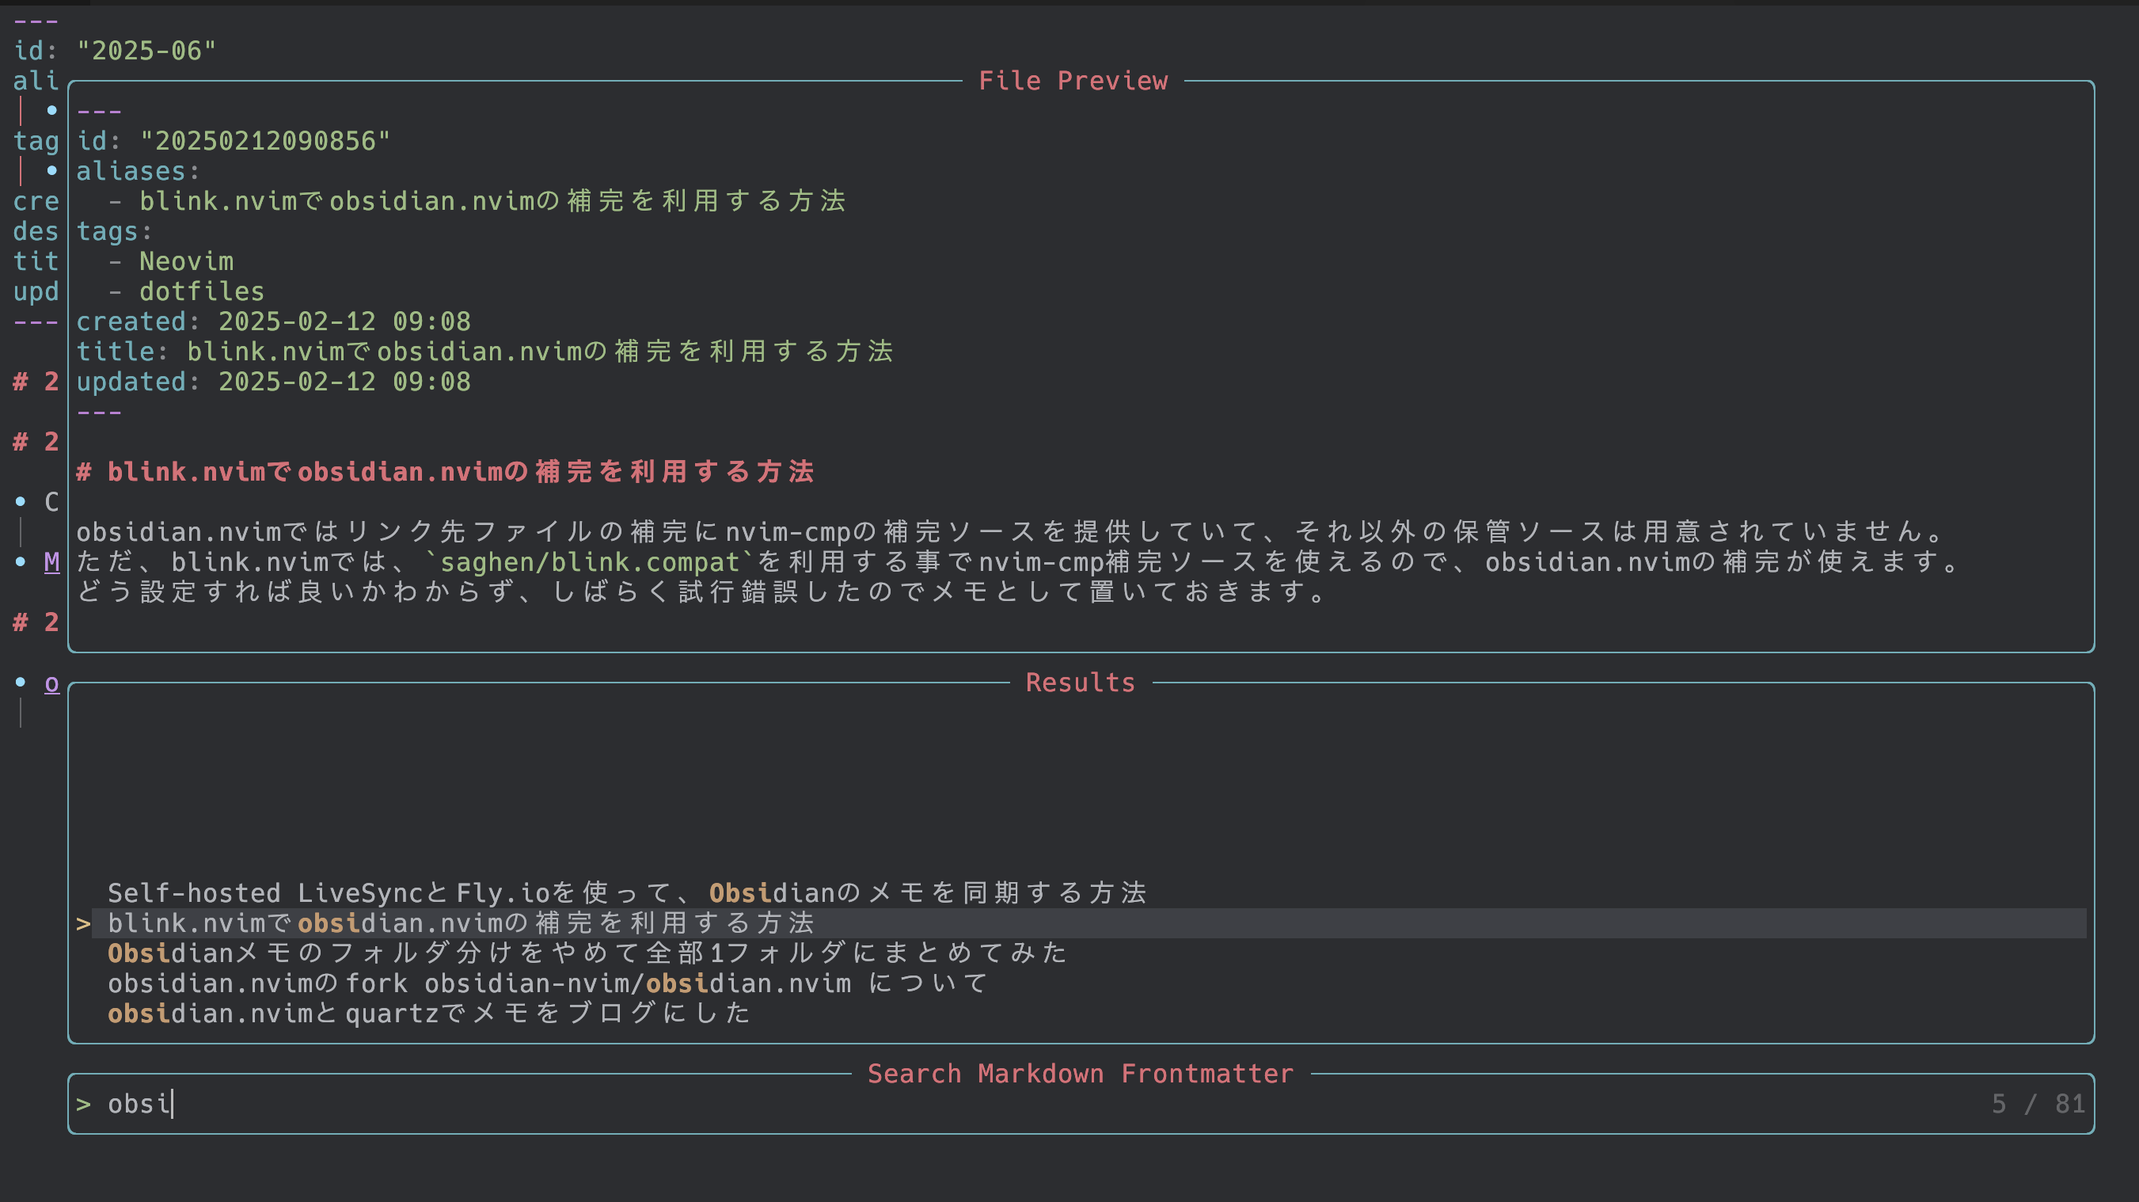
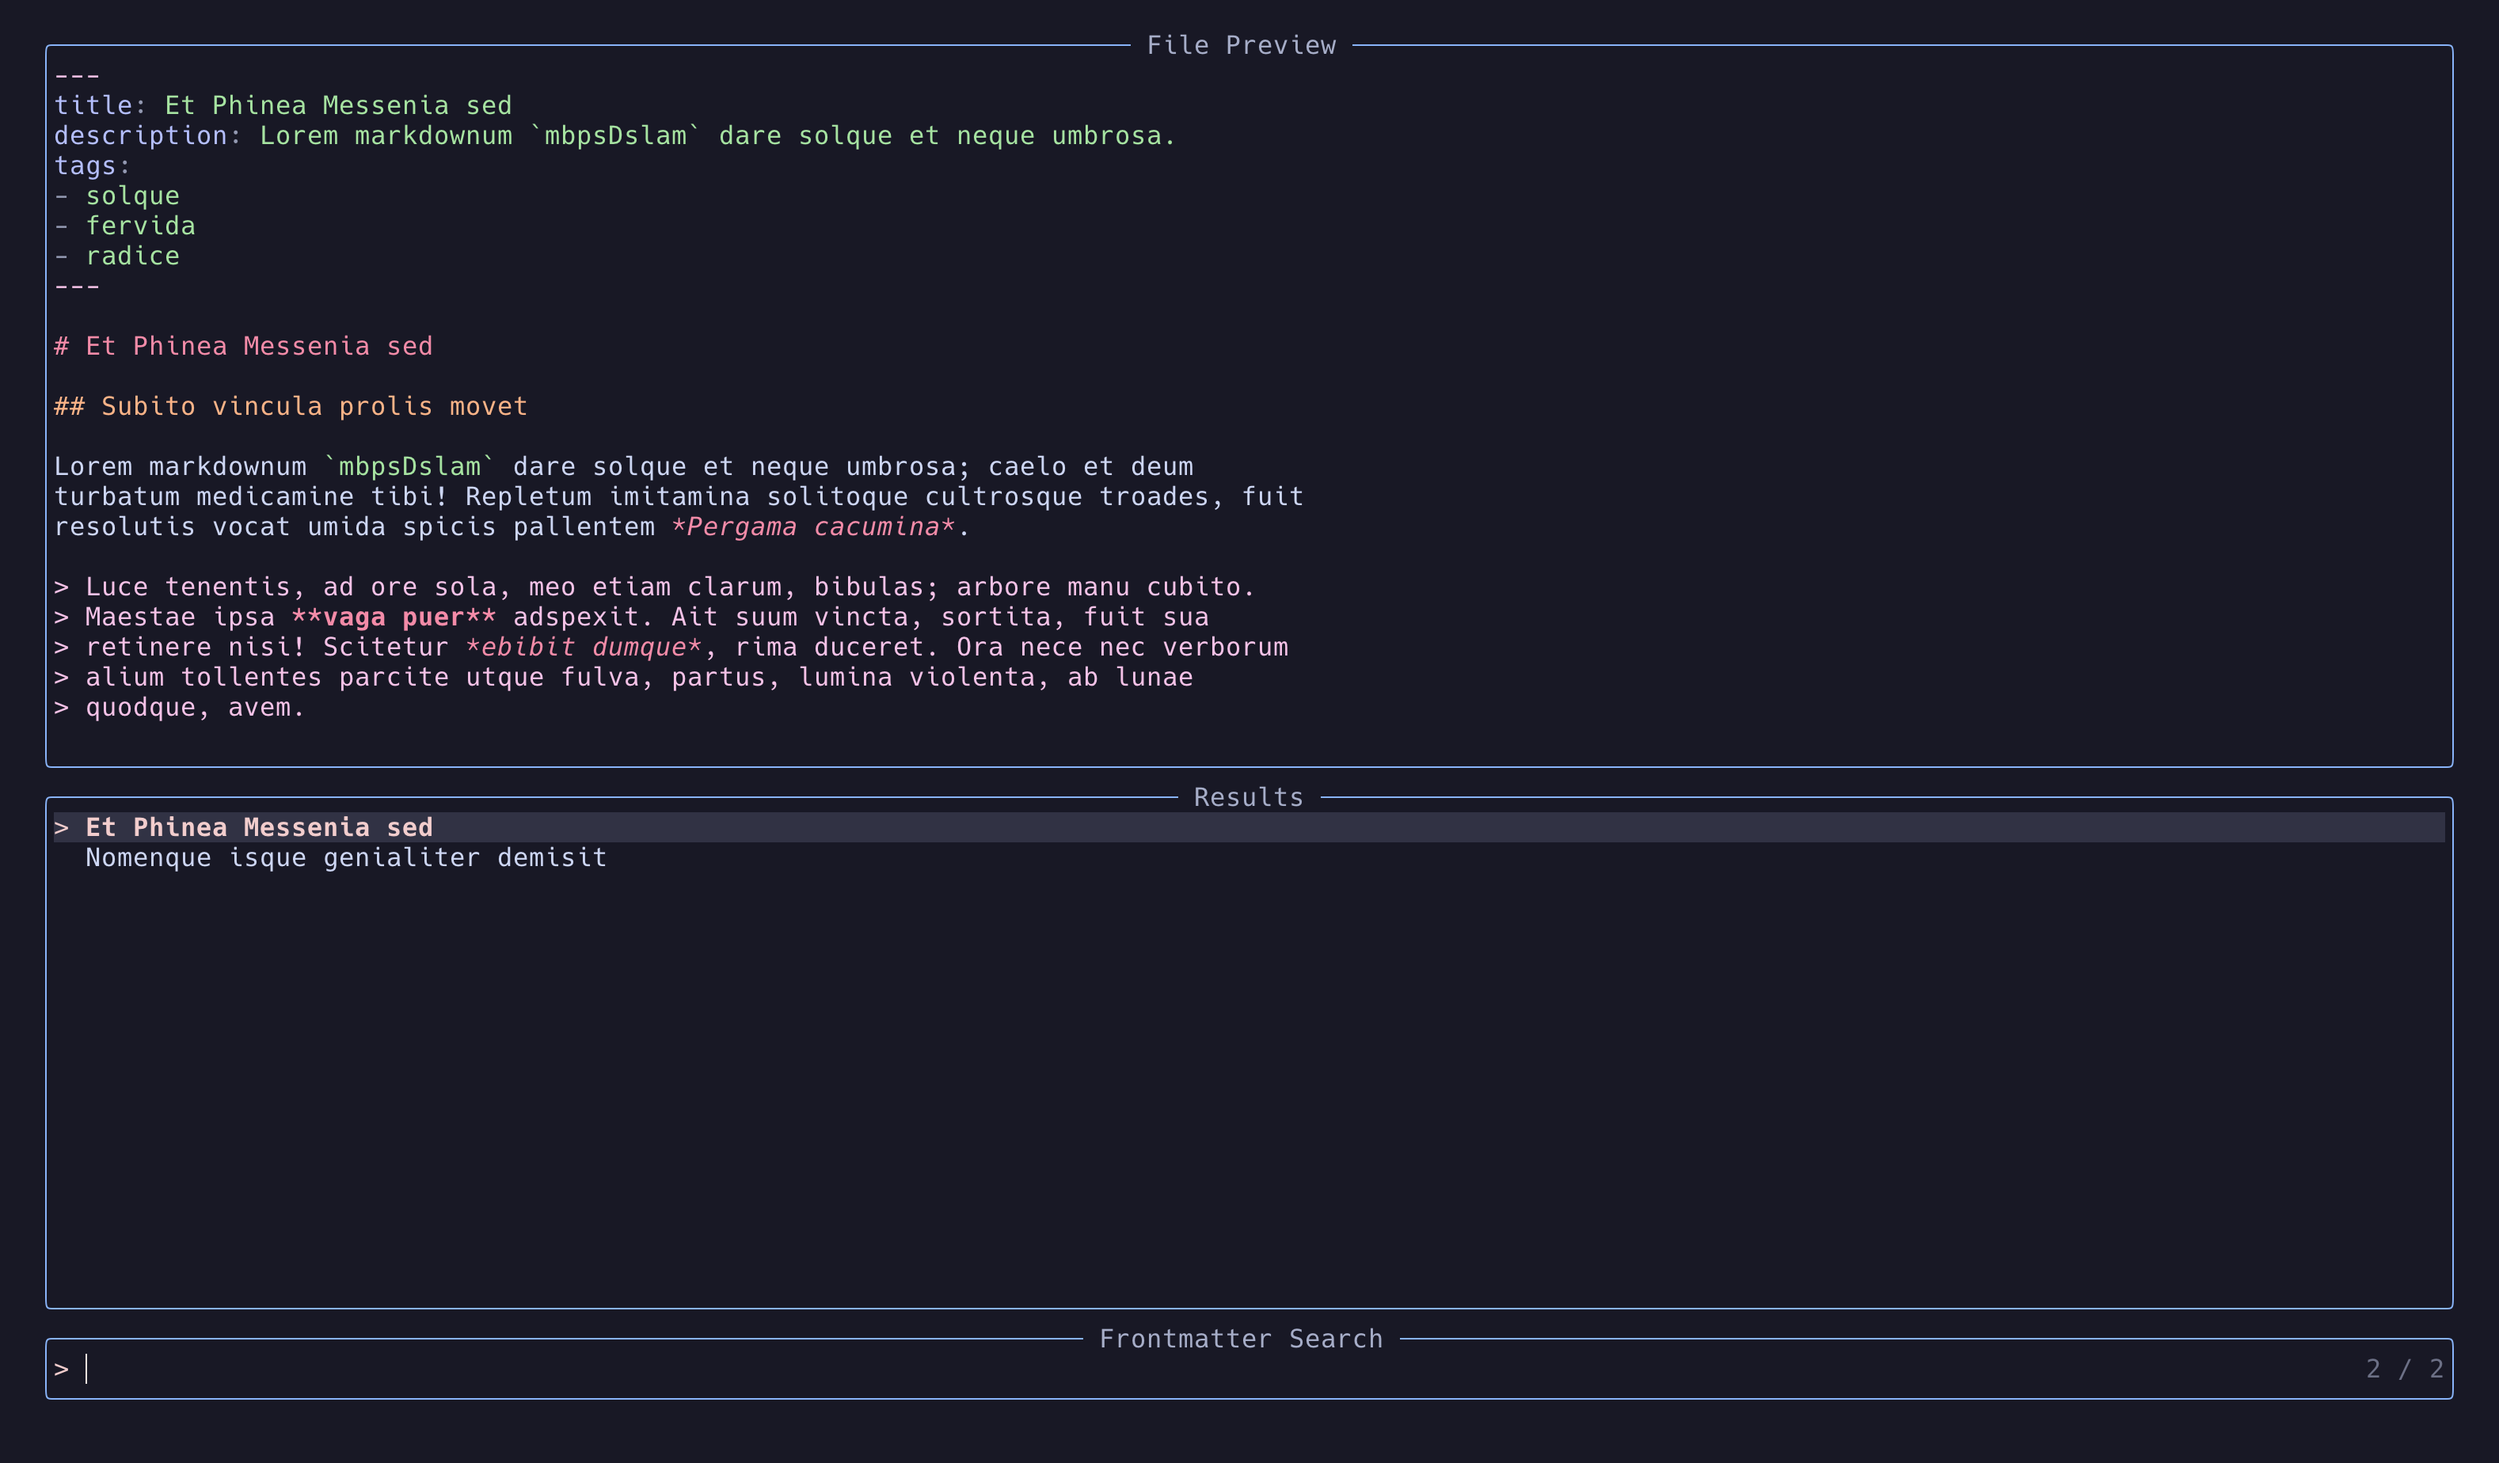
feat: Generalize for multile filetypes
- Adds ability to search for .adoc files.
- Generalizes naming conventions.

diff --git a/README.md b/README.md
@@ -1,6 +1,10 @@
-# telescope-markdown-frontmatter.nvim
+# nvim-telescope-frontmatter
 
-A [Telescope](https://github.com/nvim-telescope/telescope.nvim) extension for searching through YAML frontmatter in Markdown files.
+This is a fork of tkancf/telescope-markdown-frontmatter.nvim. This fork focuses on:
+- Generalizing the plugin to search any filetype with a frontmatter.
+- Extending the configuration.
+
+A [Telescope](https://github.com/nvim-telescope/telescope.nvim) extension for searching through YAML frontmatter in files like files and AsciiDoc.
 
 ## Features
 
@@ -12,22 +16,18 @@ A [Telescope](https://github.com/nvim-telescope/telescope.nvim) extension for se
 - Support for multiple frontmatter keys
 - Tab support (`<C-t>` to open in new tab)
 
-## Demo
-
-![Demo Screenshot](docs/screenshot.png)
-
 ## Installation
 
 ### Using [lazy.nvim](https://github.com/folke/lazy.nvim)
 
 ```lua
 {
-  "tkancf/telescope-markdown-frontmatter.nvim",
+  "quin-shanley/nvim-telescope-frontmatter",
   dependencies = {
     "nvim-telescope/telescope.nvim",
   },
   config = function()
-    require("telescope").load_extension("markdown_frontmatter")
+    require("telescope").load_extension("frontmatter")
   end,
 }
 ```
@@ -36,12 +36,12 @@ A [Telescope](https://github.com/nvim-telescope/telescope.nvim) extension for se
 
 ```lua
 use {
-  "tkancf/telescope-markdown-frontmatter.nvim",
+  "quin-shanley/nvim-telescope-frontmatter",
   requires = {
     "nvim-telescope/telescope.nvim",
   },
   config = function()
-    require("telescope").load_extension("markdown_frontmatter")
+    require("telescope").load_extension("frontmatter")
   end,
 }
 ```
@@ -52,34 +52,34 @@ use {
 
 ```vim
 " Search all configured frontmatter keys
-:Telescope markdown_frontmatter
+:Telescope frontmatter
 
 " Search a specific field
-:Telescope markdown_frontmatter title
-:Telescope markdown_frontmatter description
-:Telescope markdown_frontmatter tags
-:Telescope markdown_frontmatter author
+:Telescope frontmatter title
+:Telescope frontmatter description
+:Telescope frontmatter tags
+:Telescope frontmatter author
 
 " Search multiple fields at once
-:Telescope markdown_frontmatter field=title,description
-:Telescope markdown_frontmatter field=title,tags,author
+:Telescope frontmatter field=title,description
+:Telescope frontmatter field=title,tags,author
 ```
 
 ### Lua API
 
 ```lua
 -- Search all configured frontmatter keys
-require("telescope").extensions.markdown_frontmatter.search()
+require("telescope").extensions.frontmatter.search()
 
 -- Search a specific field
-require("telescope").extensions.markdown_frontmatter.title()
-require("telescope").extensions.markdown_frontmatter.description()
+require("telescope").extensions.frontmatter.title()
+require("telescope").extensions.frontmatter.description()
 
 -- Or with custom field
-require("telescope").extensions.markdown_frontmatter.search({ field = "author" })
+require("telescope").extensions.frontmatter.search({ field = "author" })
 
 -- Search multiple fields
-require("telescope").extensions.markdown_frontmatter.search({ field = "title,description" })
+require("telescope").extensions.frontmatter.search({ field = "title,description" })
 ```
 
 ### Keymaps
@@ -87,17 +87,17 @@ require("telescope").extensions.markdown_frontmatter.search({ field = "title,des
 ```lua
 -- Search all configured fields
 vim.keymap.set("n", "<leader>fm", function()
-  require("telescope").extensions.markdown_frontmatter.search()
-end, { desc = "Find Markdown by frontmatter" })
+  require("telescope").extensions.frontmatter.search()
+end, { desc = "Find files by frontmatter" })
 
 -- Search specific fields
 vim.keymap.set("n", "<leader>ft", function()
-  require("telescope").extensions.markdown_frontmatter.title()
-end, { desc = "Find Markdown by title" })
+  require("telescope").extensions.frontmatter.title()
+end, { desc = "Find files by title" })
 
 vim.keymap.set("n", "<leader>fd", function()
-  require("telescope").extensions.markdown_frontmatter.description()
-end, { desc = "Find Markdown by description" })
+  require("telescope").extensions.frontmatter.description()
+end, { desc = "Find files by description" })
 ```
 
 ## Configuration
@@ -107,33 +107,33 @@ end, { desc = "Find Markdown by description" })
 ```lua
 require("telescope").setup({
   extensions = {
-    markdown_frontmatter = {
+    frontmatter = {
       -- Search directories (default: current directory)
       search_dirs = { "~/notes", "~/blog" },
-      
+
       -- Directories to exclude from search
       exclude_dirs = { ".git", "node_modules", ".cache", "dist" },
-      
+
       -- Frontmatter keys to search (can search multiple keys)
       frontmatter_keys = { "title", "description", "tags" },
-      
+
       -- Enable file preview (default: true)
       preview = true,
-      
+
       -- Custom prompt title
-      prompt_title = "Search Markdown Frontmatter",
+      prompt_title = "Searching Frontmatters",
     }
   }
 })
 
 -- Load the extension
-require("telescope").load_extension("markdown_frontmatter")
+require("telescope").load_extension("frontmatter")
 ```
 
 ### Search with runtime options
 
 ```lua
-require("telescope").extensions.markdown_frontmatter.search({
+require("telescope").extensions.frontmatter.search({
   search_dirs = { "~/blog" },
   frontmatter_keys = { "title", "author" },
 })
@@ -159,17 +159,31 @@ date: 2024-01-15
 ...
 ```
 
+## Example AsciiDoc File
+
+```asciidoc
+---
+title: My Amazing Blog Post
+description: A detailed guide about Neovim plugins
+tags: ["neovim", "plugins", "tutorial"]
+author: John Doe
+date: 2024-01-15
+---
+
+= My Amazing Blog Post
+
+== Content starts here
+...
+```
+
 When searching, this file would appear in results for any of the configured frontmatter keys.
 
 ## License
 
 MIT License - see [LICENSE](LICENSE) for details
 
-## Contributing
-
-Contributions are welcome! Please feel free to submit a Pull Request.
-
 ## Acknowledgments
 
 - [telescope.nvim](https://github.com/nvim-telescope/telescope.nvim) for the amazing fuzzy finder framework
 - Inspired by various Telescope extensions
+- Fork of tkancf/telescope-markdown-frontmatter.nvim
